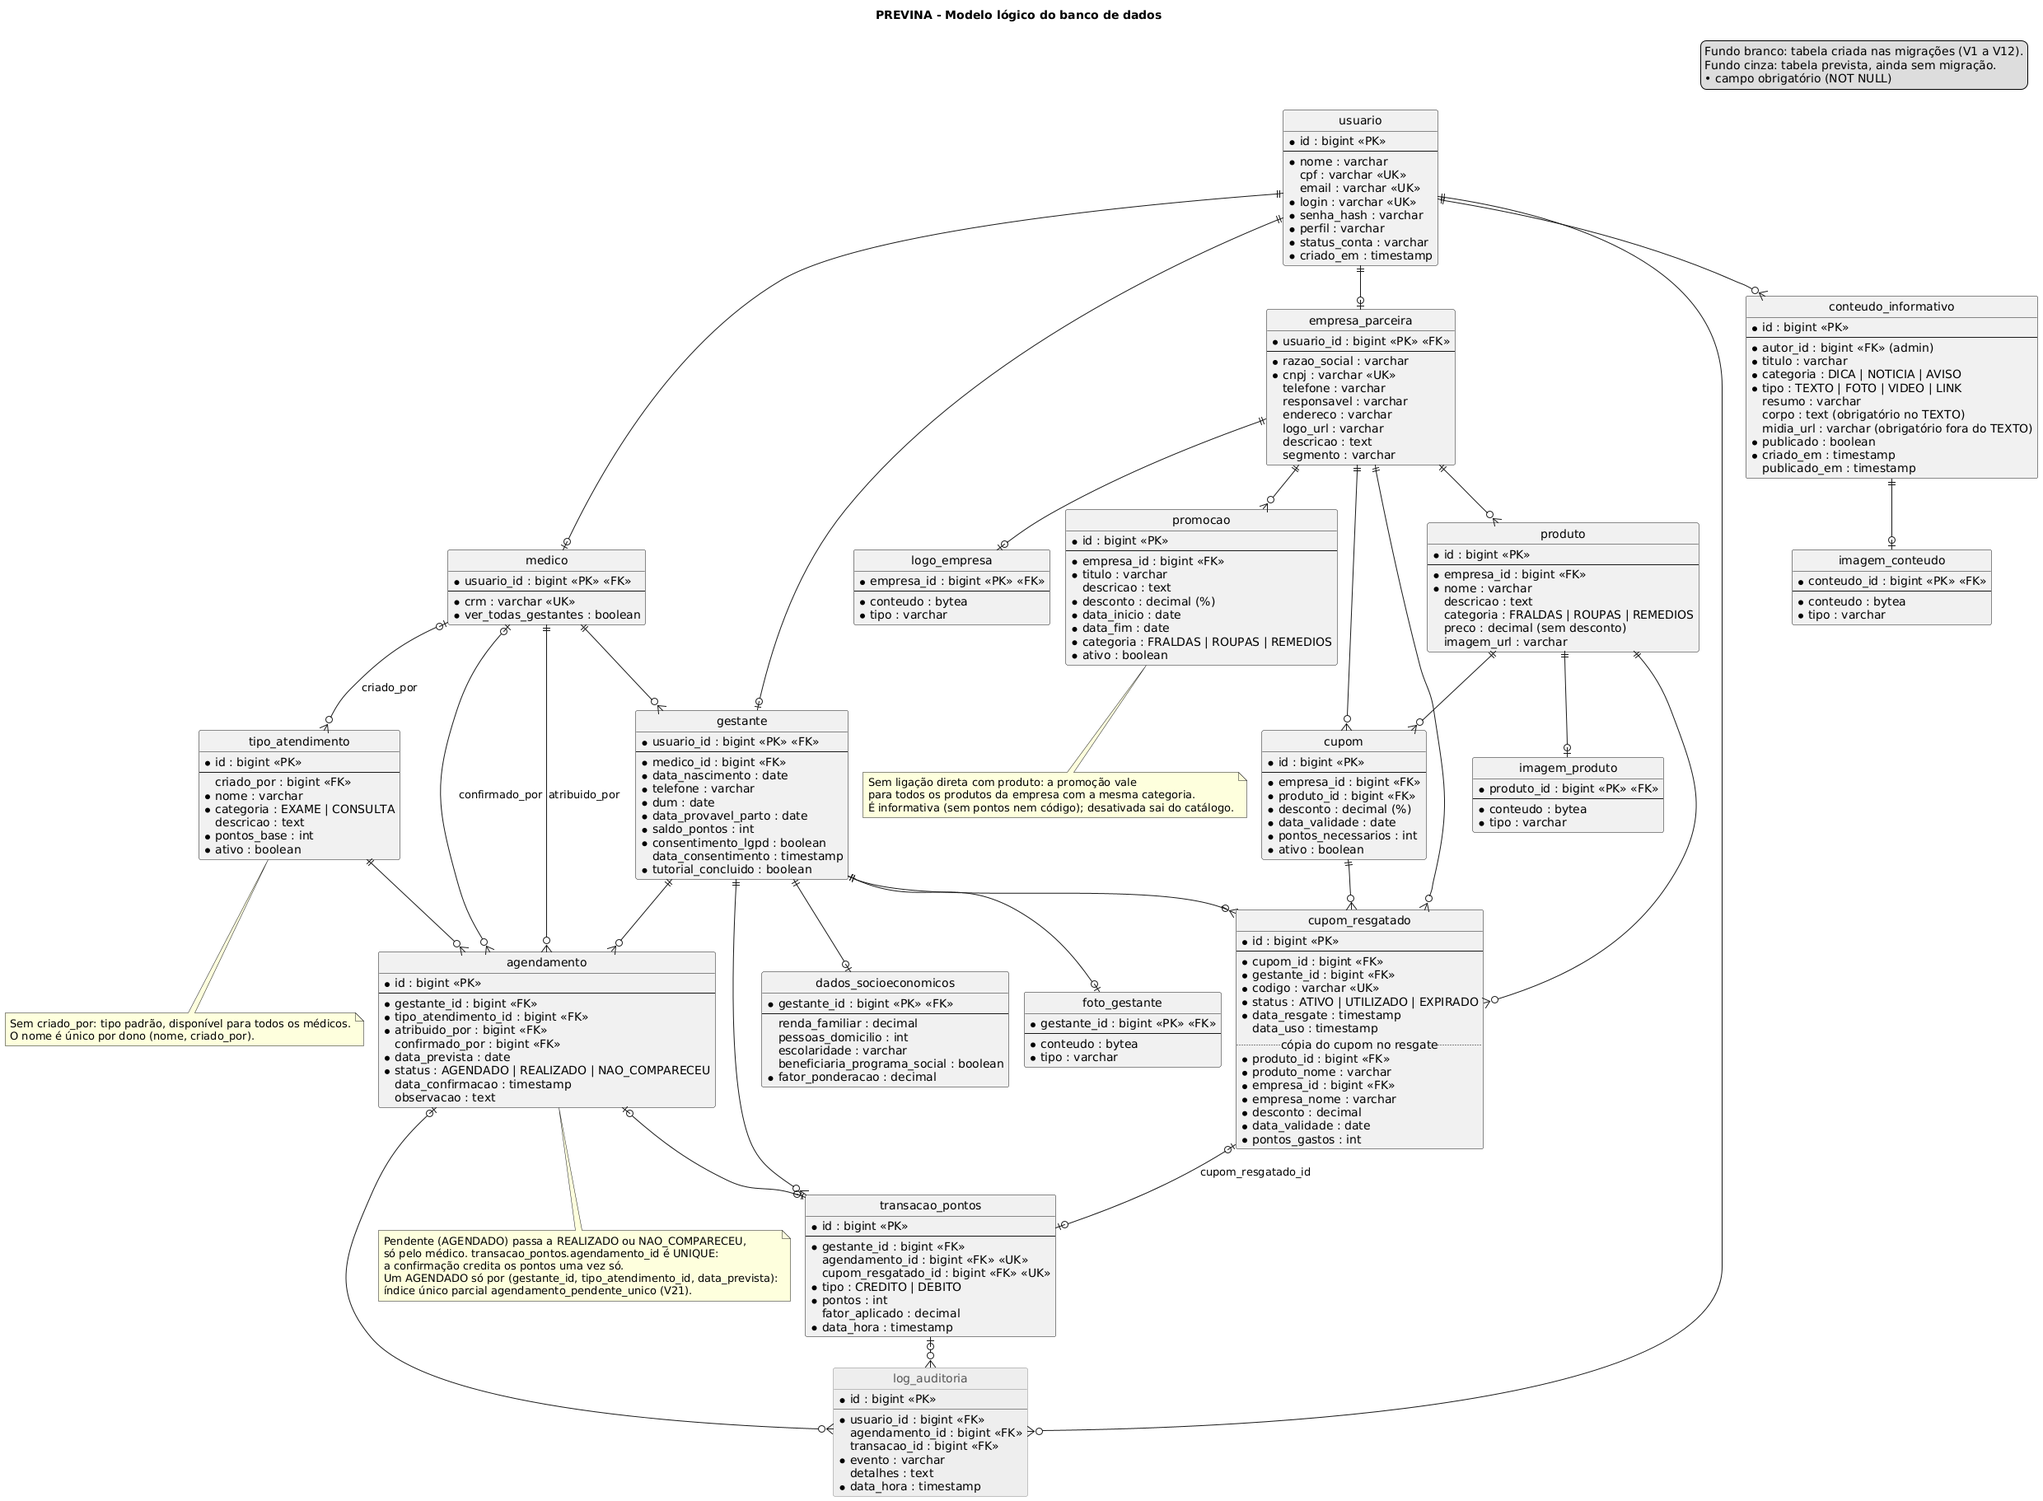
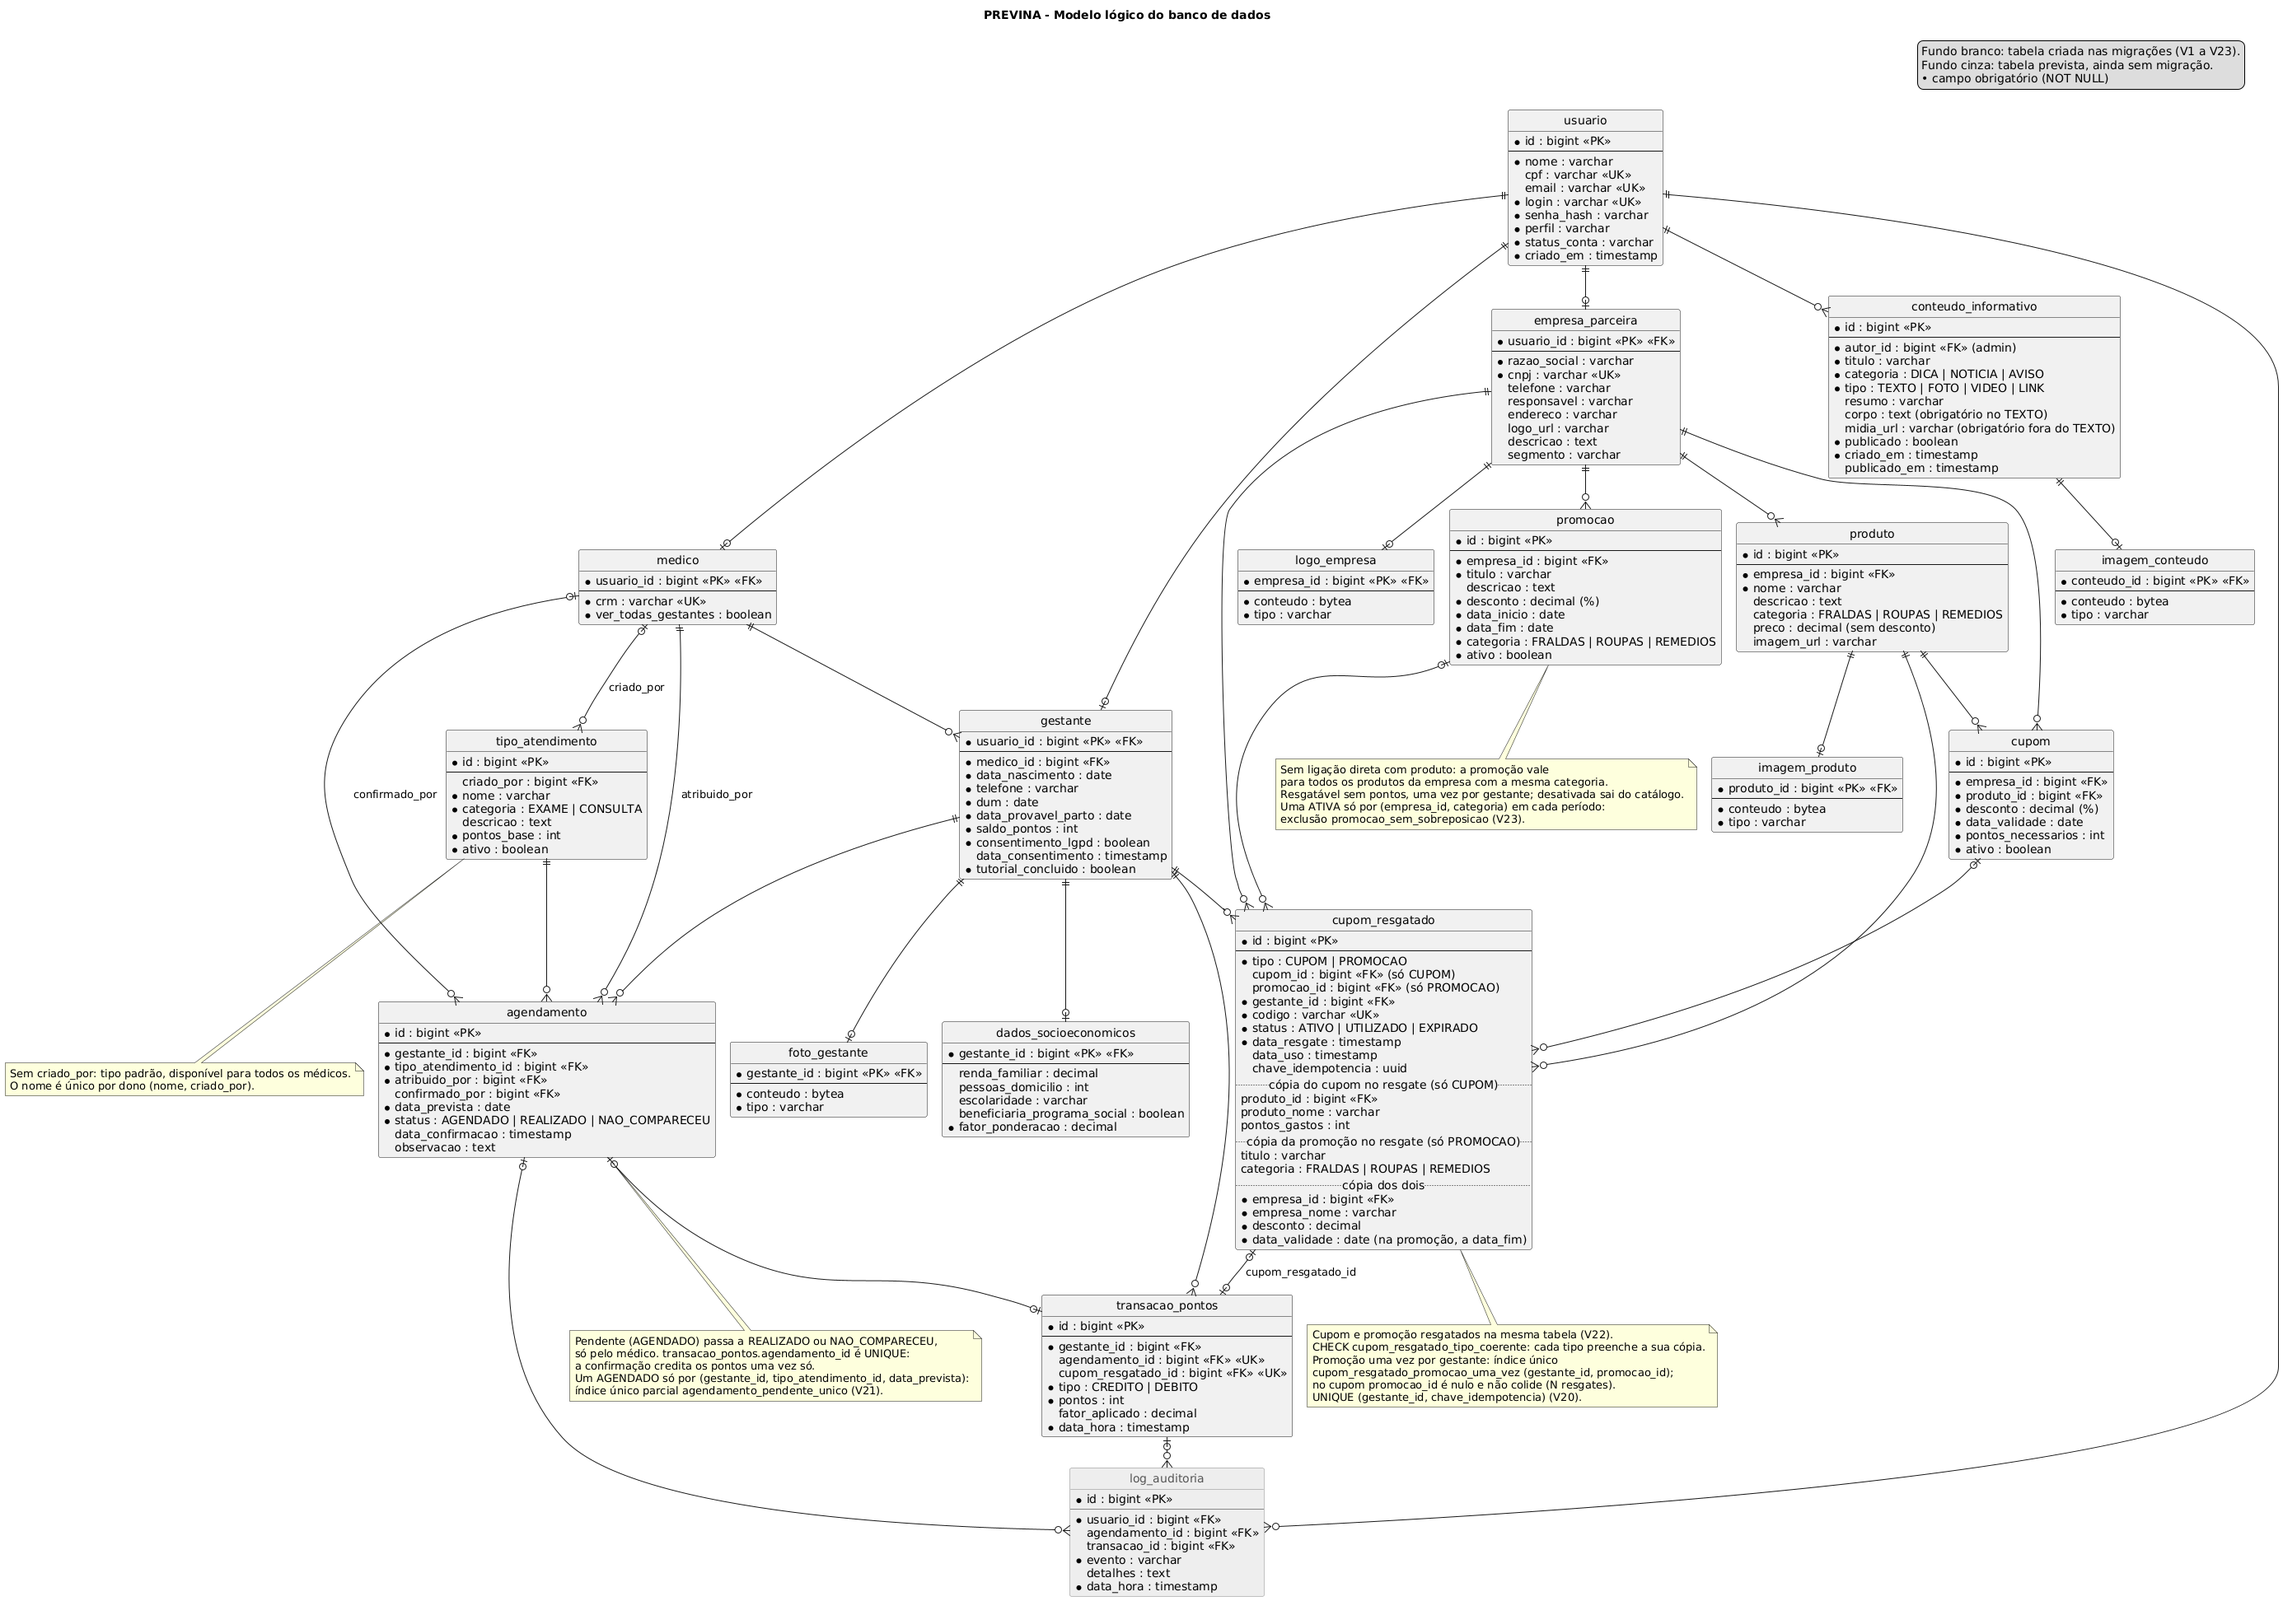
docs: promoção resgatável, tabela única de resgates e D12
- README e docs/README: a regra, o endpoint com os 409, a decisão da tabela
  única cupom_resgatado e a exclusão das promoções sobrepostas; corrige a
  menção às migrações (V1 a V23)
- novo diagrama de sequência resgatar-promocao; cadastrar-promocao com o
  409 de sobreposição; detalhe do produto com "resgatada"; modelo de domínio
  com tipo, promocao_id e a cópia da promoção em cupom_resgatado
- PNGs regenerados com o PlantUML 1.2024.7

Changed region(s): [[0.0, 0.0615, 1.0, 1.0], [0.8073, 0.0, 0.9935, 0.0615], [0.4347, 0.0, 0.5589, 0.0307]]

diff --git a/docs/README.md b/docs/README.md
@@ -9,7 +9,7 @@ Cada diagrama tem a sua pasta, com o fonte (`.puml`, PlantUML) e a imagem (`.png
 
 Para gerar a imagem de novo depois de editar o fonte: `java -jar plantuml.jar -tpng <pasta>/<nome>.puml` (PlantUML 1.2024.7). O modelo lógico e os casos de uso usam o layout `smetana`, que não precisa do Graphviz.
 
-No modelo lógico, as tabelas em cinza ainda não têm migração (auditoria); as demais seguem as migrações V1 a V17.
+No modelo lógico, as tabelas em cinza ainda não têm migração (auditoria); as demais seguem as migrações V1 a V23.
 
 ## Decisões
 
@@ -43,6 +43,31 @@ No modelo lógico, as tabelas em cinza ainda não têm migração (auditoria); a
   não é UUID, `400`. Sem o header (versões antigas do app), cada chamada é um resgate — resgatar o mesmo cupom mais de
   uma vez é permitido. A busca pela chave é feita com a gestante travada; o UNIQUE `(gestante_id, chave_idempotencia)`
   (`V20`) é a última barreira.
+- **Promoção resgatável:** a promoção não custa pontos, e cada gestante resgata cada promoção uma vez só
+  (`POST /promocoes/{id}/resgatar`, com o mesmo header `Idempotency-Key` do cupom). O resgate gera um código único,
+  com os status do cupom (`ATIVO`, `UTILIZADO`, `EXPIRADO`), válido até a `data_fim` da promoção; não há débito nem
+  `transacao_pontos`, então a promoção não aparece no extrato. Cupom e promoção do mesmo produto são resgates
+  independentes, e o cupom continua podendo ser resgatado N vezes enquanto houver pontos. Respostas: `201` resgate
+  novo; `200` mesma chave da mesma gestante; `400` chave que não é UUID; `404` promoção inexistente; `409`
+  "Promoção indisponível" (desativada, antes do início ou depois do fim, o mesmo critério do catálogo) e `409`
+  "Promoção já resgatada" (a gestante já a resgatou com outra chave ou sem chave). Quem decide o "uma vez" é o índice
+  único `cupom_resgatado_promocao_uma_vez (gestante_id, promocao_id)` (`V22`), e não uma consulta antes: o resgate grava
+  com flush e traduz a violação pelo nome do índice. No detalhe do produto (`GET /ofertas/produtos/{id}`), cada
+  promoção traz `resgatada`, montado com uma consulta só.
+- **Tabela única de resgates:** cupom e promoção resgatados ficam em `cupom_resgatado`, com a coluna `tipo` (`CUPOM` ou
+  `PROMOCAO`, `V22`). Os dois têm código, status, validade, empresa e desconto, e a empresa vai validar os dois códigos
+  do mesmo jeito; duas tabelas duplicariam a geração do código, a validação e a lista "meus resgates". Cada tipo guarda a
+  própria cópia: o cupom, `cupom_id`, produto e pontos; a promoção, `promocao_id`, título e categoria. O CHECK
+  `cupom_resgatado_tipo_coerente` amarra quais colunas cada tipo preenche, e a resposta do resgate traz o `tipo`. O
+  índice único só vale para a promoção: no cupom `promocao_id` é nulo, e nulos não colidem.
+- **Uma promoção ativa por categoria em cada período (D12):** a empresa não tem duas promoções ativas da mesma
+  categoria com períodos que se cruzam (os dois dias inclusos: uma que termina no dia 10 e outra que começa no 11 não
+  se cruzam). A exclusão `promocao_sem_sobreposicao` (`V23`, GiST com `btree_gist`, só entre as `ativo`) barra no
+  banco; cadastro, edição e ativação respondem `409` "Já existe promoção ativa dessa categoria nesse período", e
+  desativar nunca conflita. Antes de gravar, a empresa é travada (`SELECT ... FOR UPDATE`): sem essa fila, dois
+  cadastros sobrepostos simultâneos entram os dois no índice, cada um espera o outro na conferência da exclusão e o
+  PostgreSQL derruba um com `deadlock detected`, que viraria `500`. A regra continua sendo a exclusão; a fila só faz o
+  perdedor receber a violação dela.
 - **Auditoria pendente:** os diagramas de cadastro e de confirmação marcam `log_auditoria` como previsto: ainda não
   tem migração nem é gravada. Por ora o rastro de quem resolveu está em `agendamento.confirmado_por` e
   `agendamento.data_confirmacao`.
@@ -77,7 +102,7 @@ No modelo lógico, as tabelas em cinza ainda não têm migração (auditoria); a
 - **Consulta pendente:** é a de status `AGENDADO`, mesmo com a data prevista já passada — o que define é o médico não
   ter registrado o desfecho. `/gestantes/agendamentos?pendentes=true|false` separa a tela inicial do histórico do app.
 - **Cálculo dos pontos:** `arredondar(tipo_atendimento.pontos_base × dados_socioeconomicos.fator_ponderacao)`, com o fator gravado em `transacao_pontos.fator_aplicado`. O fator é neutro (1,00) até a regra de ponderação ser definida.
-- **Promoção e cupom:** a promoção vale para todos os produtos da empresa em uma categoria (fraldas, roupas ou remédios); o cupom vale para um produto específico, sem quantidade, e a empresa o ativa ou desativa.
+- **Promoção e cupom:** a promoção vale para todos os produtos da empresa em uma categoria (fraldas, roupas ou remédios), do início ao fim (os dois dias inclusos), e se resgata sem pontos, uma vez por gestante; o cupom vale para um produto específico, sem quantidade, custa pontos e pode ser resgatado várias vezes. A empresa ativa ou desativa os dois.
 - **Catálogo de ofertas da gestante:** `/ofertas` lista as empresas, e cada uma os produtos com oferta: cupom válido
   (ativo e dentro da validade) ou promoção vigente da mesma empresa na categoria do produto. Produto sem categoria
   pode ter cupom, mas nunca promoção. Os filtros (busca, categoria, empresa, tipo, "cabe no meu saldo") ficam no

diff --git a/README.md b/README.md
@@ -2,7 +2,7 @@
 
 API do **Previna**, sistema que incentiva gestantes de primeira viagem a irem às consultas e aos exames do pré-natal.
 A gestante ganha pontos a cada consulta ou exame confirmado pelo médico e troca os pontos por cupons de desconto das
-empresas parceiras.
+empresas parceiras. As promoções das empresas não custam pontos: cada gestante resgata cada promoção uma vez.
 
 ## Stack
 
@@ -19,7 +19,7 @@ empresas parceiras.
 | `ADMIN`            | Portal web           | Cadastra médicos e pré-cadastra empresas parceiras                           |
 | `MEDICO`           | Portal web           | Pré-cadastra gestantes, agenda exames e consultas e confirma a realização    |
 | `EMPRESA_PARCEIRA` | Portal web           | Cadastra produtos, promoções e cupons                                        |
-| `GESTANTE`         | App mobile           | Acompanha exames e consultas, consulta os pontos e resgata cupons            |
+| `GESTANTE`         | App mobile           | Acompanha exames e consultas, consulta os pontos e resgata cupons e promoções |
 
 Contas pré-cadastradas recebem uma senha temporária; o token emitido com ela tem o papel `PRIMEIRO_ACESSO_<perfil>`
 e só serve para concluir o primeiro acesso. A gestante e a empresa nunca são lidas do caminho da URL, e sim do token.
@@ -74,7 +74,7 @@ src/main/java/com/cozyshelf/previna/
     config/         Spring Security e Spring MVC
     email/          envio de e-mails
 src/main/resources/
-  db/migration/     migrações Flyway (V1 a V21)
+  db/migration/     migrações Flyway (V1 a V23)
   db/seed/          dados de exemplo, só no profile dev
 docs/               modelo lógico, casos de uso e diagramas de sequência (ver docs/README.md)
 ```
@@ -97,7 +97,8 @@ mvn test
   simultâneas de ponta a ponta (servidor numa porta aleatória, token JWT, filtro de segurança e controller) em que só
   uma tem efeito, a trava contra resgates simultâneos (`SELECT ... FOR UPDATE`), a
   idempotência do resgate, o saldo alterado só por `UPDATE` atômico, as travas do primeiro acesso e das edições, o
-  agendamento pendente único (cadastros iguais simultâneos gravam um só), o rollback, a consulta por validade, a busca sem acento e as subconsultas do catálogo de ofertas só se provam no banco. Rodam só com a variável `PREVINA_TEST_DB_URL` apontando para um banco **descartável** (as migrações são
+  agendamento pendente único (cadastros iguais simultâneos gravam um só), o resgate único da promoção e a promoção
+  ativa sem sobreposição (resgates, cadastros e reativações simultâneos têm um efeito só), o rollback, a consulta por validade, a busca sem acento e as subconsultas do catálogo de ofertas só se provam no banco. Rodam só com a variável `PREVINA_TEST_DB_URL` apontando para um banco **descartável** (as migrações são
   aplicadas nele); sem ela, são pulados.
 
 No ambiente do `previna-development`:
